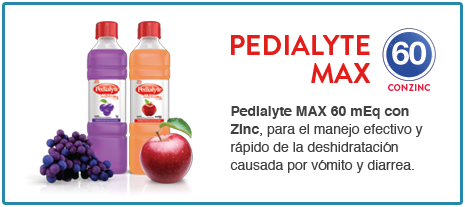
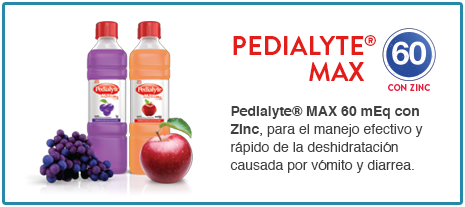
Ajustes marca registrada e imagenes

Changed region(s): [[0.4817, 0.1449, 0.8129, 0.4058], [0.6022, 0.4928, 0.9032, 0.5797], [0.843, 0.4058, 0.9333, 0.4638]]

diff --git a/wp-content/themes/pedialyteTheme/css/style.css b/wp-content/themes/pedialyteTheme/css/style.css
@@ -116,6 +116,12 @@ button:focus {
     position: relative;
 }
 
+.pedialyteReg3 {
+    font-size: 0.9rem;
+    top: -5px;
+    position: relative;
+}
+
 
 /* MENU AND NAVIGATION  */
 
@@ -562,15 +568,14 @@ h3.modalSubtitle {
     .menuLinks li:nth-child(3) {
         min-height: 52px;
     }
-
+/*  */
     .deployedMenu .menuLinks li a,
     .deployedMenu .menuLinks li a:hover,
     .deployedMenu .menuLinks li a:active,
     .deployedMenu .menuLinks li a:focus {
         font-size: 1rem;
         line-height: 14px;
-        padding-top: 12px;
-        padding-bottom: 12px;
+        padding: 12px 11px 12px;
     }
 
     .deployedMenu .menuLinks li.lastLink {

diff --git a/wp-content/themes/pedialyteTheme/index.php b/wp-content/themes/pedialyteTheme/index.php
@@ -3,8 +3,8 @@
 Template Name: inicio
 */
 ?>	
-	<?php get_header(); ?>
-
+<?php get_header(); ?>
+	
 	<div class="col-xs-12 no-padding containerHomePedialyte">
 		
 		<!-- Mobile Carousel -->
@@ -158,18 +158,17 @@ Template Name: inicio
 				<div class="col-xs-12 col-sm-6 col-md-4 no-padding imgDehydrationCauses">
 					<img class="img-responsive" src="<?php echo get_bloginfo('template_directory'); ?>/img/GraphicTexts2.png" alt="">
 				</div>					
-				<div class="col-xs-12 col-sm-6 col-md-4 no-padding imgDehydrationCauses">
+				<div class="col-xs-12 col-sm-6 col-md-4 hidden no-padding imgDehydrationCauses">
 					<img class="img-responsive" src="<?php echo get_bloginfo('template_directory'); ?>/img/GraphicTexts3.png" alt="">
 				</div>					
 				<div class="col-xs-12 col-sm-6 col-md-4 no-padding imgDehydrationCauses">
 					<img class="img-responsive" src="<?php echo get_bloginfo('template_directory'); ?>/img/GraphicTexts4.png" alt="">
 				</div>
-				<div class="col-xs-12 col-sm-6 col-md-4 no-padding imgDehydrationCauses visible-md visible-lg">
+				<div class="col-xs-12 col-sm-6 col-md-4 hidden no-padding imgDehydrationCauses">
 					<img class="img-responsive" src="<?php echo get_bloginfo('template_directory'); ?>/img/GraphicTexts5.png" alt="">
 				</div>
 			</div>
-			<div class="col-xs-12 recommendationText">
-									
+			<div class="col-xs-12 hidden recommendationText">									
 				<div class="col-xs-12 col-sm-6 col-md-4 no-padding imgDehydrationCauses visible-xs visible-sm">
 					<img class="img-responsive" src="<?php echo get_bloginfo('template_directory'); ?>/img/GraphicTexts5.png" alt="">
 				</div>
@@ -312,10 +311,10 @@ Template Name: inicio
 				<h2 class="recommend">Pedialyte <span><span class="pedialyteReg2">&reg;</span></span>, el que más recomiendan los médicos en colombia*</h2>
 			</div>				
 			<div class="col-xs-12 textRecommend">
-				<p class="col-xs-12 no-padding customPadding">PEDIALYTE<span class="pedialyteReg">&reg;</span> 30 mEq con Zinc. Registro Sanitario: INVIMA 2016M-0017049. Indicaciones: prevención temprana de la deshidratación leve por pérdida de líquidos y electrolitos. Pedialyte<span class="pedialyteReg">&reg;</span> 30 mEq contiene zinc para ayudar a reponer tempranamente el zinc eliminado durante la pérdida de electrolitos y agua. PEDIALYTE<span class="pedialyteReg">&reg;</span> MAX 60 mEq con Zinc. Registro Sanitario: INVIMA 2016M-0011256-R1. Indicaciones: Tratamiento de la deshidratación moderada a grave por pérdida de líquidos y electrolítos. Pedialyte<span class="pedialyteReg">&reg;</span> MAX 60 mEq contiene zinc para ayudar a reponer el zinc perdido durante la deshidratación por pérdida de líquidos y electrolitos. Es un medicamento. No exceder su consumo. Leer indicaciones y contraindicaciones en la etiqueta. Si los síntomas persisten consulte a su médico. Medicamento de venta libre. *Reporte IMS CLOSE UP Mayo 2017.
+				<p class="col-xs-12 no-padding customPadding">PEDIALYTE<span class="pedialyteReg3">&reg;</span> 30 mEq con Zinc. Registro Sanitario: INVIMA 2016M-0017049. Indicaciones: prevención temprana de la deshidratación leve por pérdida de líquidos y electrolitos. Pedialyte<span class="pedialyteReg3">&reg;</span> 30 mEq contiene zinc para ayudar a reponer tempranamente el zinc eliminado durante la pérdida de electrolitos y agua. PEDIALYTE<span class="pedialyteReg3">&reg;</span> MAX 60 mEq con Zinc. Registro Sanitario: INVIMA 2016M-0011256-R1. Indicaciones: Tratamiento de la deshidratación moderada a grave por pérdida de líquidos y electrolítos. Pedialyte<span class="pedialyteReg3">&reg;</span> MAX 60 mEq contiene zinc para ayudar a reponer el zinc perdido durante la deshidratación por pérdida de líquidos y electrolitos. Es un medicamento. No exceder su consumo. Leer indicaciones y contraindicaciones en la etiqueta. Si los síntomas persisten consulte a su médico. Medicamento de venta libre. *Reporte IMS CLOSE UP Mayo 2017.
 				</p>
 			</div>
 		</div>
 	</div>
 	
-	<?php get_footer(); ?>
+<?php get_footer(); ?>

diff --git a/wp-content/themes/pedialyteTheme/header.php b/wp-content/themes/pedialyteTheme/header.php
@@ -71,7 +71,7 @@
 							<a data-scroll href="#DehydrationCause">¿Qué causa la <br class="hidden-xs"> deshidratación?</a>
 						</li>
 						<li>
-							<a data-scroll class="customLink" href="#whyPedialyte">¿Por qué pedialyte?</a>
+							<a data-scroll class="customLink" href="#whyPedialyte">¿Por qué pedialyte<span class="pedialyteReg">&reg;</span>?</a>
 						</li>
 						<li>
 							<a data-scroll href="#hydration">Hidratación <br class="hidden-xs"> y Alimentación</a>
